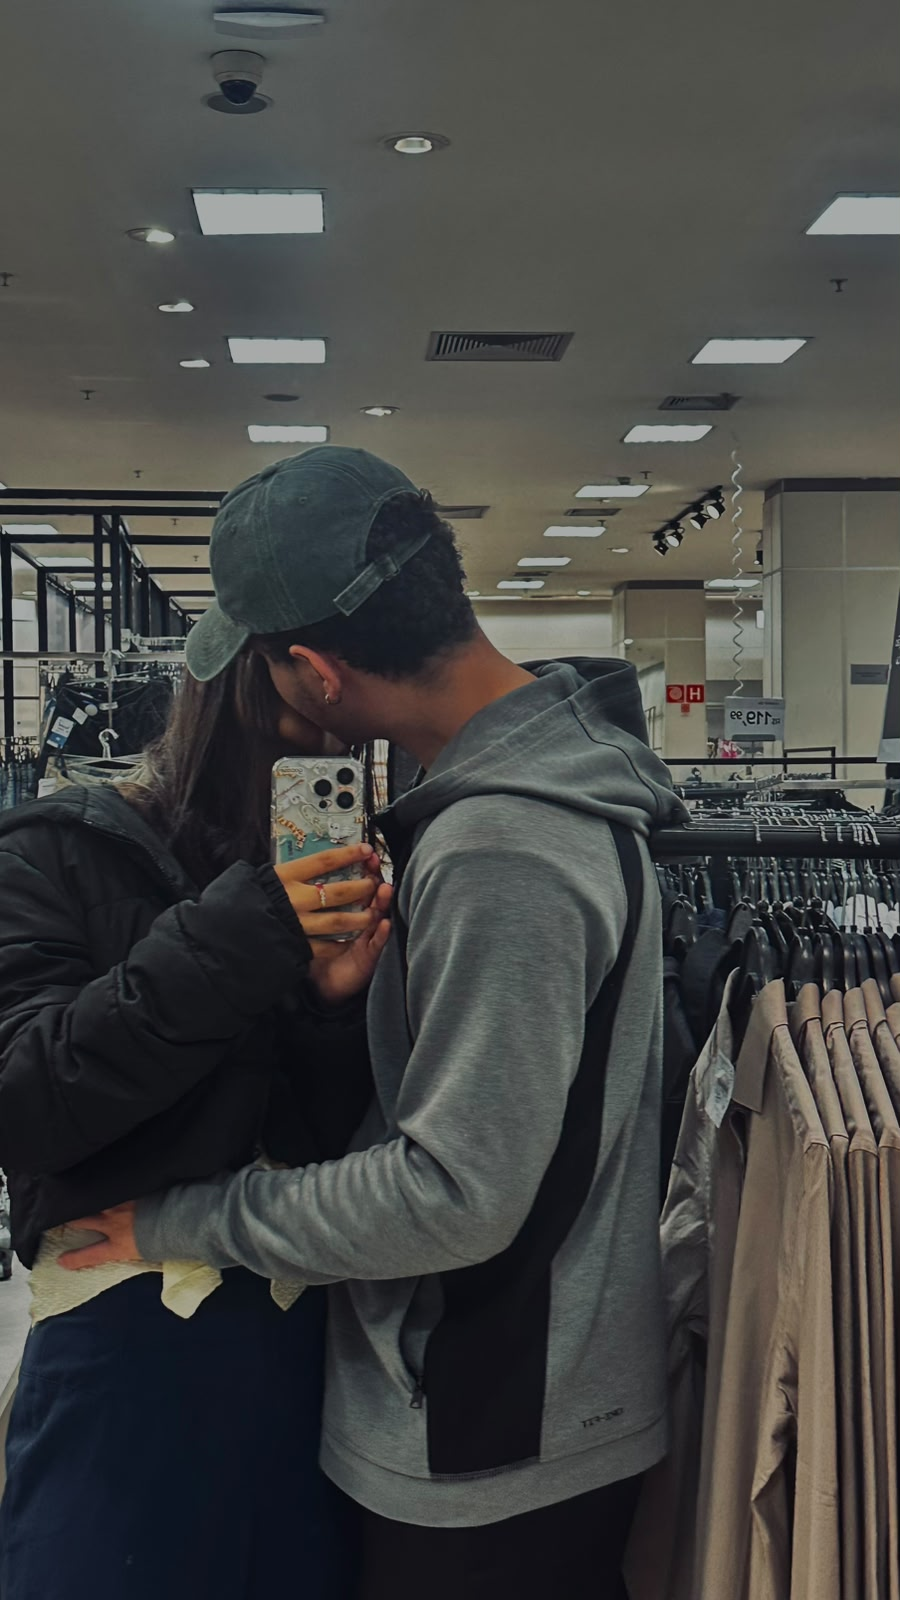
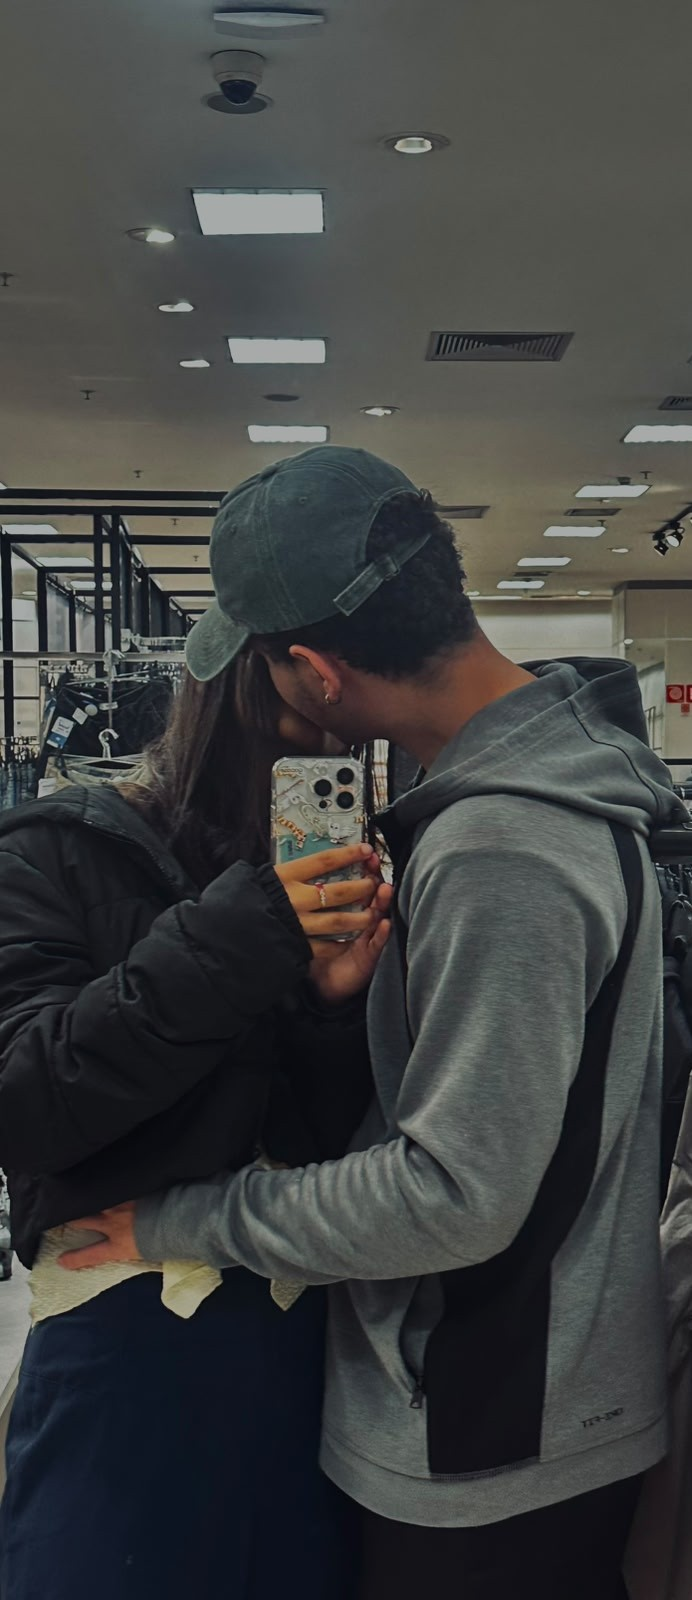
Alterando posiçãos das fotos

diff --git a/src/data/songs.ts b/src/data/songs.ts
@@ -7,6 +7,7 @@ export const songs: Song[] = [
     artist: "Shawn Mendes",
     cover: "/imgs/covers/1.jpg",
     audio: "/audio/NeverBeAlone.mp3",
+    coverPosition: "80% 100%",
   },
   {
     id: 2,
@@ -14,6 +15,7 @@ export const songs: Song[] = [
     artist: "Shawn Mendes",
     cover: "/imgs/covers/2.jpg",
     audio: "/audio/TheresNothingHoldingMeBack.mp3",
+    coverPosition: "center 25%",
   },
   {
     id: 3,
@@ -21,6 +23,7 @@ export const songs: Song[] = [
     artist: "Ed Sheeran",
     cover: "/imgs/covers/3.jpg",
     audio: "/audio/Perfect.mp3",
+    coverPosition: "center 80%",
   },
   {
     id: 4,
@@ -28,6 +31,7 @@ export const songs: Song[] = [
     artist: "Ed Sheeran",
     cover: "/imgs/covers/4.jpg",
     audio: "/audio/Photograph.mp3",
+    coverPosition: "center 80%",
   },
   {
     id: 5,
@@ -35,6 +39,7 @@ export const songs: Song[] = [
     artist: "Ed Sheeran",
     cover: "/imgs/covers/5.jpg",
     audio: "/audio/ShapeOfYou.mp3",
+    coverPosition: "center 70%",
   },
   {
     id: 6,
@@ -42,6 +47,7 @@ export const songs: Song[] = [
     artist: "Alex Warren",
     cover: "/imgs/covers/6.jpg",
     audio: "/audio/Ordinary.mp3",
+    coverPosition: "center 100%",
   },
   {
     id: 7,
@@ -49,6 +55,7 @@ export const songs: Song[] = [
     artist: "Alex Warren",
     cover: "/imgs/covers/7.jpg",
     audio: "/audio/Eternity.mp3",
+    coverPosition: "center 35%",
   },
   {
     id: 8,
@@ -56,6 +63,7 @@ export const songs: Song[] = [
     artist: "John Legend",
     cover: "/imgs/covers/8.jpg",
     audio: "/audio/AllofMe.mp3",
+    coverPosition: "center 75%",
   },
   {
     id: 9,
@@ -63,6 +71,7 @@ export const songs: Song[] = [
     artist: "Bruno Mars",
     cover: "/imgs/covers/9.jpg",
     audio: "/audio/JustTheWayYouAre.mp3",
+    coverPosition: "center 55%",
   },
   {
     id: 10,
@@ -70,6 +79,7 @@ export const songs: Song[] = [
     artist: "Post Malone",
     cover: "/imgs/covers/10.jpg",
     audio: "/audio/Sunflower.mp3",
+    coverPosition: "20% 45%",
   },
   {
     id: 11,
@@ -77,6 +87,7 @@ export const songs: Song[] = [
     artist: "Post Malone",
     cover: "/imgs/covers/11.jpg",
     audio: "/audio/Stay.mp3",
+    coverPosition: "center 45%",
   },
   {
     id: 12,
@@ -84,5 +95,6 @@ export const songs: Song[] = [
     artist: "Jorge & Mateus",
     cover: "/imgs/covers/12.jpg",
     audio: "/audio/OsAnjosCantam.mp3",
+    coverPosition: "center 55%",
   },
 ];

diff --git a/src/components/AlbumCover/AlbumCover.tsx b/src/components/AlbumCover/AlbumCover.tsx
@@ -3,14 +3,16 @@ import "./AlbumCover.css";
 interface AlbumCoverProps {
   cover: string;
   title: string;
+  position?: string;
 }
 
-const AlbumCover = ({ cover, title }: AlbumCoverProps) => {
+const AlbumCover = ({ cover, title, position }: AlbumCoverProps) => {
   return (
     <img
       className="album-cover"
       src={cover}
       alt={`Capa de ${title}`}
+      style={{ objectPosition: position ?? "center" }}
     />
   );
 };

diff --git a/src/components/Player/Player.tsx b/src/components/Player/Player.tsx
@@ -65,6 +65,7 @@ const Player = () => {
       <AlbumCover
         cover={currentSong.cover}
         title={currentSong.title}
+        position={currentSong.coverPosition}
       />
 
       <SongInfo

diff --git a/src/types/song.ts b/src/types/song.ts
@@ -4,4 +4,5 @@ export interface Song {
   artist: string;
   cover: string;
   audio: string;
+  coverPosition?: string;
 }
